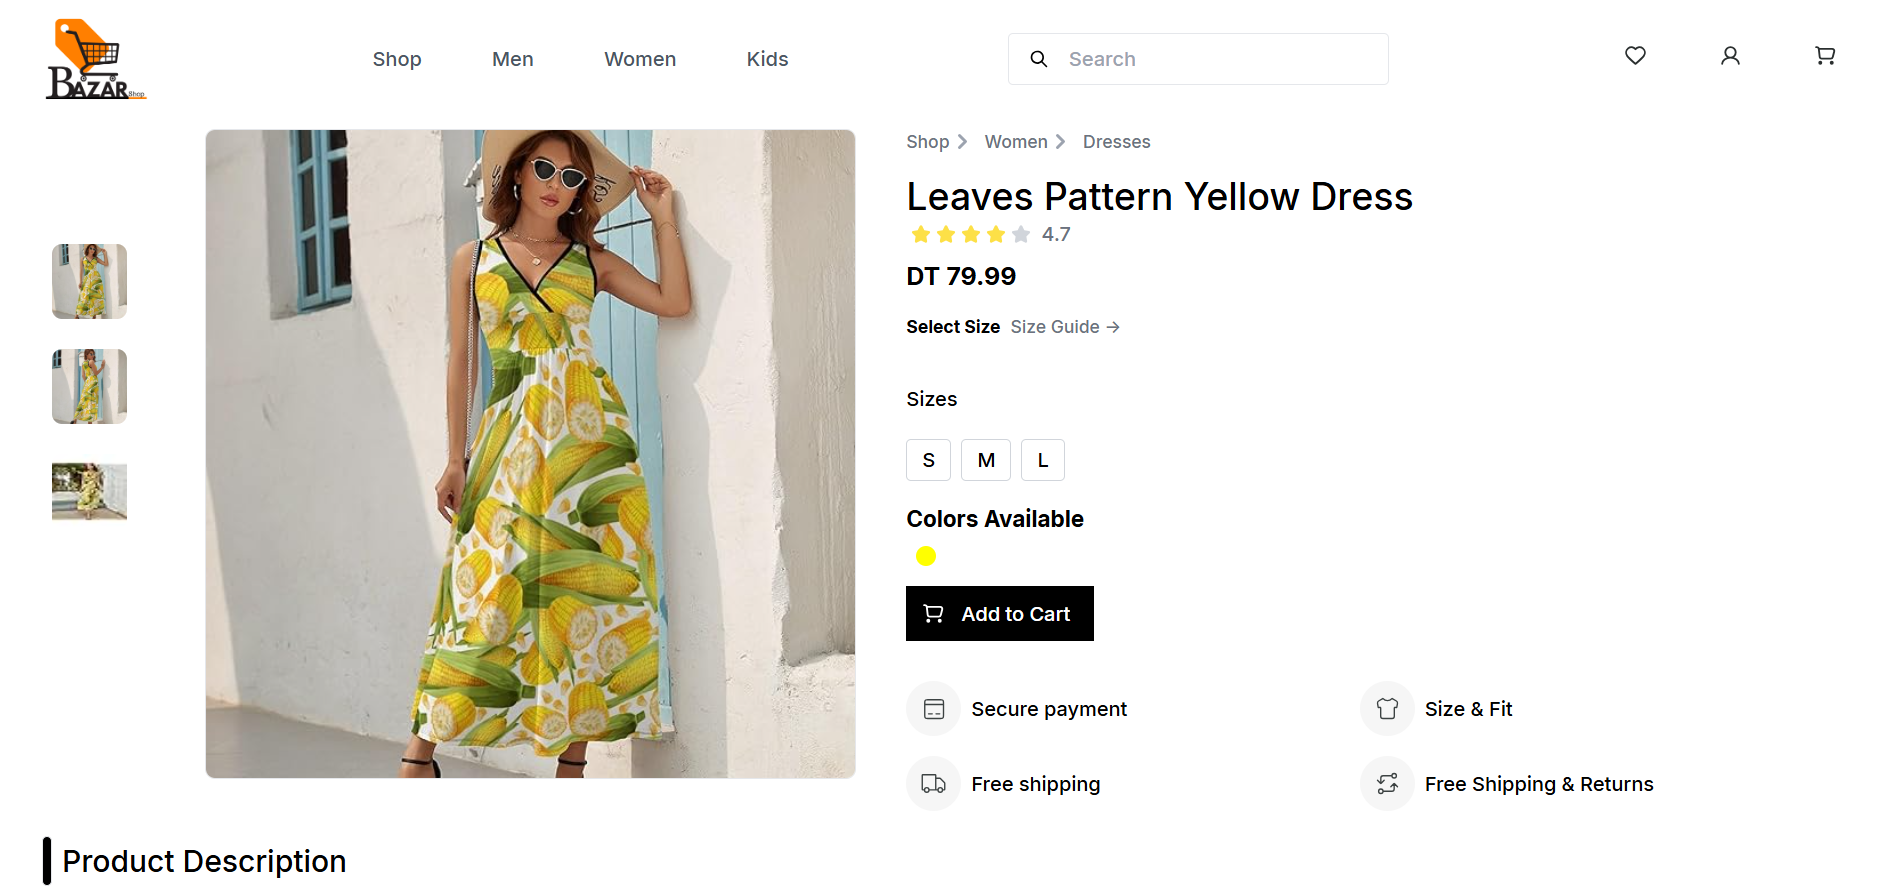
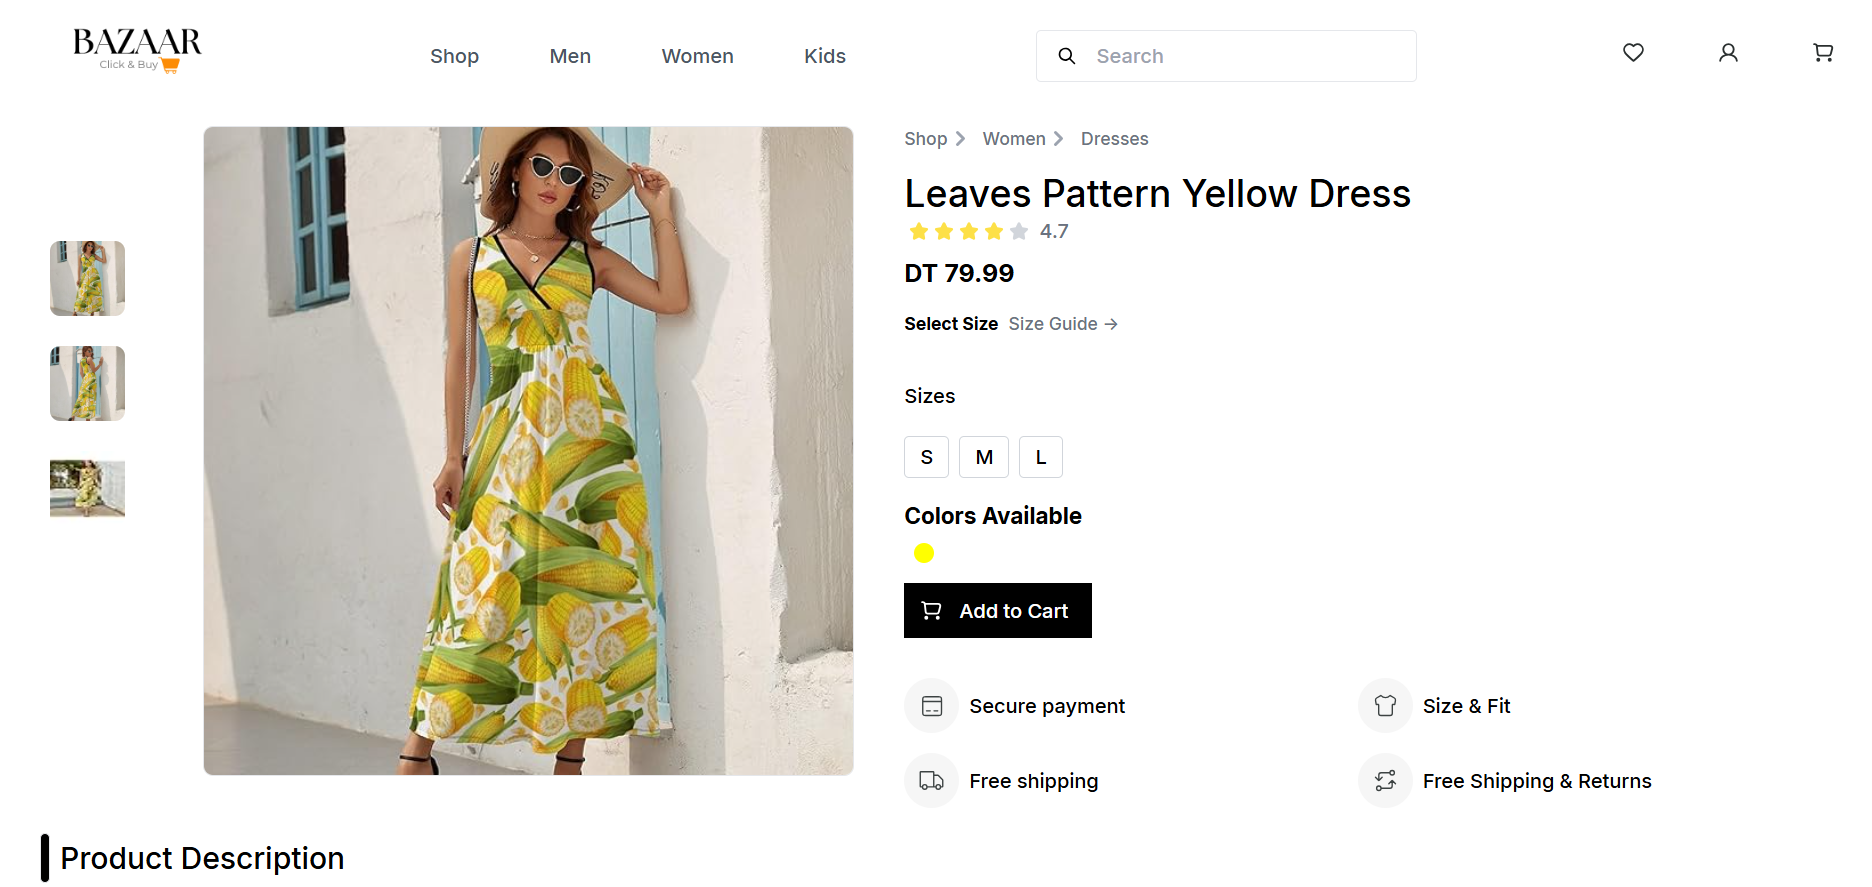
la dernière modification

diff --git a/frontend/src/components/Navigation/NavigationBar.jsx b/frontend/src/components/Navigation/NavigationBar.jsx
@@ -7,7 +7,7 @@ import { countCartItems } from '../../store/features/cart'
 import './Navigation.css';
 import { useSelector } from 'react-redux'
 
-import logo from '../../assets/images/BAZAR.png';
+import logo from '../../assets/images/bazaar.png';
 
 const Navigation = ({variant="default"}) => {
 
